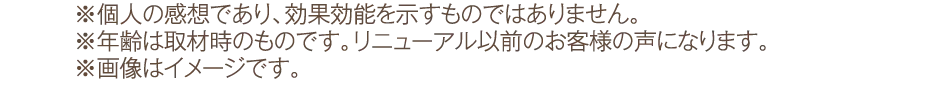
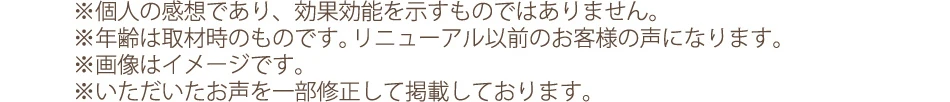
303修正

Changed region(s): [[0.0611, 0.0, 0.8242, 1.0]]

diff --git a/sp/cp/hd/ava303cp/index.html b/sp/cp/hd/ava303cp/index.html
@@ -218,7 +218,8 @@
                       </ul>
                       <p>
                         ※1：通常価格は味の素ダイレクト（株）オンラインショップでキャンペーン価格以外で購入した場合の価格となり、定期お届けコースの割引額（率）はその価格を元にしています。<br>
-                        ※2：味の素（株）調べ（2015年12月）旧商品「アミノエール®」購入者への実感アンケート調査（N-294、「飲み続けたい」「どちらかというと飲み続けたい」と答えた人の合計）累計販売数※「定期コース」に継続回数の制約はございません。<a href="https://direct.ajinomoto.co.jp/cart/" target="_blank">今すぐお得に定期コースに申し込む</a>
+                        ※2：味の素（株）調べ（2015年12月）旧商品「アミノエール®」購入者への実感アンケート調査（N=294、「飲み続けたい」「どちらかというと飲み続けたい」と答えた人の合計）※「定期コース」に継続回数の制約はございません。<br>
+                        <a href="https://direct.ajinomoto.co.jp/cart/" target="_blank">今すぐお得に定期コースに申し込む</a>
                       </p>
                       <ul>
                         <li>■毎月お届け定期コースについて</li>
